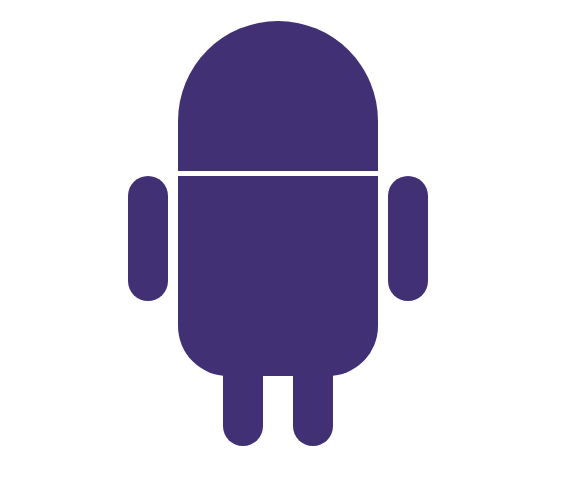
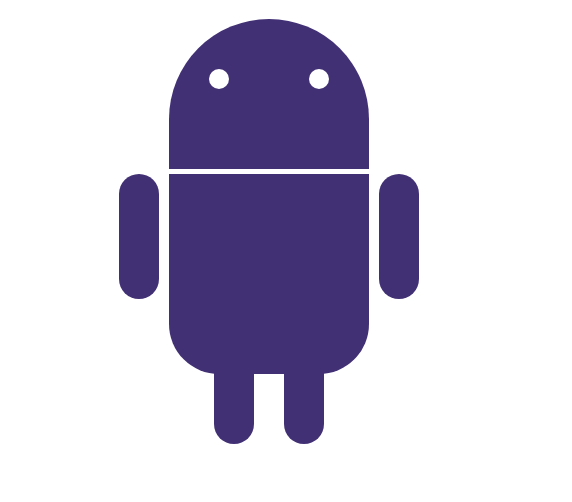
Fixed the robot eyes positioning bugs and Readme file and replaced the image

diff --git a/style.css b/style.css
@@ -28,12 +28,26 @@ h1 {
 	margin: 0 auto;
 	height: 150px;
 	border-radius: 200px 200px 0 0;
+    position: relative; /* To make it easier to position the eyes */
 	border-bottom: 10px;
 }
 
 .eyes {
-	display: flex;
+    display: flex;
+    justify-content: space-around; /* Ensures the eyes are evenly spaced out within the head */
+    position: absolute;
+    top: 50px; /* Positions the eyes lower within the head */
+    width: 100%; /* Make the eyes container span full width of the head, to ensure the eyes are positioned correctly within the head*/
 }
+
+
+.left_eye, .right_eye {
+    width: 30px;
+    height: 30px;
+    border-radius: 50%; /* Make the eyes circular */
+    background-color: white;
+}
+
 
 .head:hover {
 	width: 300px;
@@ -126,28 +140,13 @@ h1 {
     transform: rotate(20deg);
 }
 
-}
 
-.left_eye, right_eye {
+.left_eye, .right_eye {
 	width: 20px; 
 	height: 20px; 
-	border-radius: 15px; 
+	border-radius: 50%; /* Make the eyes circular */
 	background-color: white;  
-
 }
-
-.left_eye { 
-	position: relative; 
-	top: 100px; 
-	left: 40px; 
-}
-
-.right_eye { 
-	position: relative; 
-	top: 100px; 
-	left: 120px; 
-}
-
 
 p {
 	text-align: center;

diff --git a/README.md b/README.md
@@ -1,4 +1,4 @@
 # Robot-Animation
 
-This project designed a simple robot animation using HTML5 and CSS3. An
+This project designed a simple Android robot animation using HTML5 and CSS3. An
 external style sheet was utilized to define the styles for the page elements.
